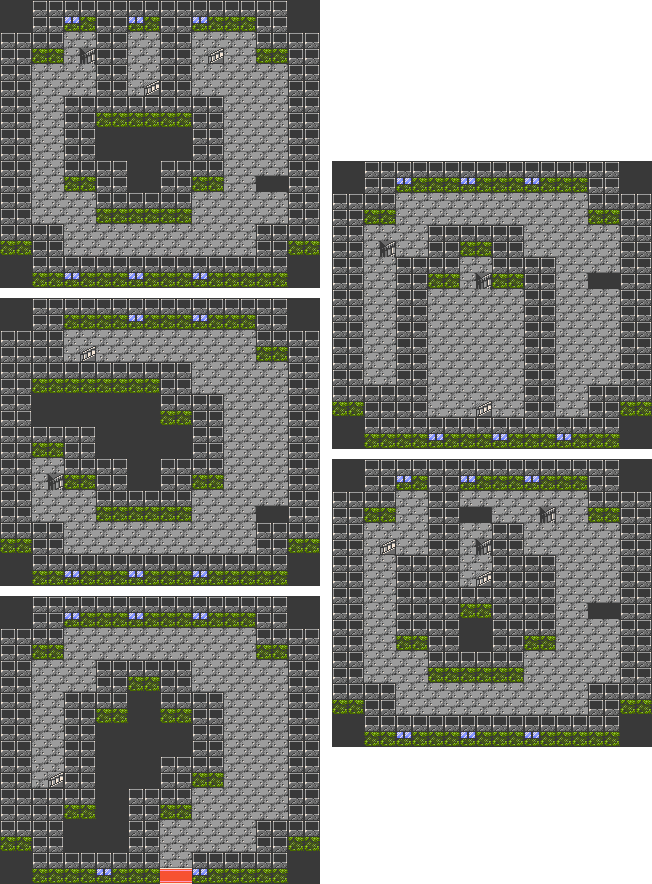
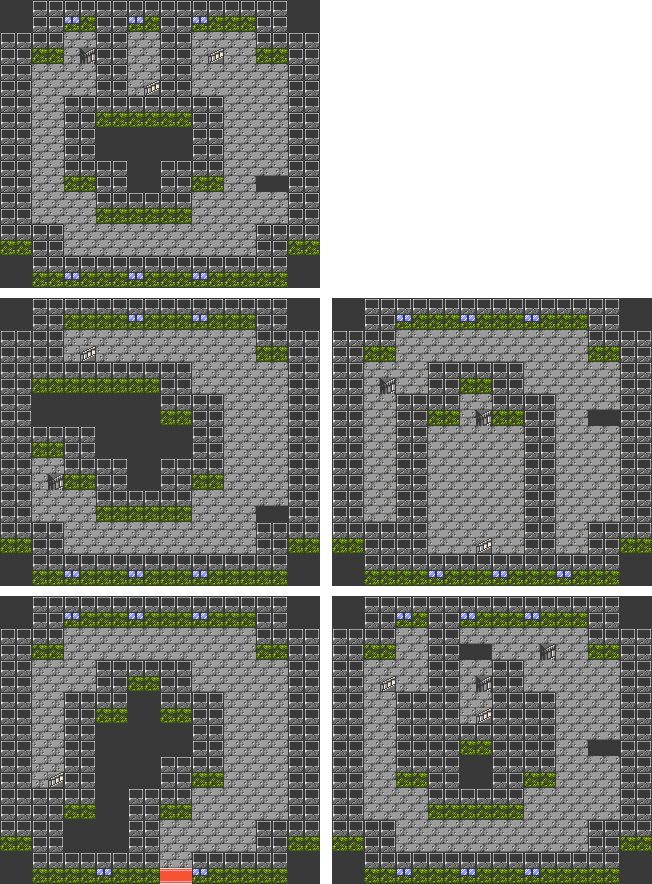
Added all warps, need to reajust

diff --git a/crystal.js b/crystal.js
@@ -154,7 +154,7 @@ var crystal = {
 			rightmart: {x: 280, y: 85                              },
 			gym:       {x: 102, y: 183                             },
 			center:    {x: 252, y: 251                             },
-			icepath:   {x: 432, y: 90, name: "Route 44 (Mahogany)" },
+			icepath:   {x: 432, y: 90, name: "Route44 (Mahogany)" },
         },
         blackthorn: {
 			den:         {x: 330, y: 69  },
@@ -366,7 +366,177 @@ var crystal = {
         },
 
         // Important locations
-        
+        darkcave: {
+			left:  {x: 113, y: 217 },
+			top:   {x: 280, y: 49  },
+			right: {x: 571, y: 506 },
+        },
+        puzzlechambers: {
+			hooh_top:       {x: 80,  y: 25,  name: "Puzzle (Ho-oh)"      },
+			hooh_mid:       {x: 80,  y: 75,  name: "Puzzle (Ho-oh)"      },
+			hooh_bot:       {x: 80,  y: 130, name: "Puzzle (Ho-oh)"      },
+			kabuto_top:     {x: 250, y: 25,  name: "Puzzle (Kabuto)"     },
+			kabuto_mid:     {x: 250, y: 75,  name: "Puzzle (Kabuto)"     },
+			kabuto_bot:     {x: 250, y: 130, name: "Puzzle (Kabuto)"     },
+			omanyte_top:    {x: 80,  y: 194, name: "Puzzle (Omanyte)"    },
+			omanyte_mid:    {x: 80,  y: 248, name: "Puzzle (Omanyte)"    },
+			omanyte_bot:    {x: 80,  y: 305, name: "Puzzle (Omanyte)"    },
+			aerodactyl_top: {x: 250, y: 194, name: "Puzzle (Aerodactyl)" },
+			aerodactyl_mid: {x: 250, y: 248, name: "Puzzle (Aerodactyl)" },
+			aerodactyl_bot: {x: 250, y: 305, name: "Puzzle (Aerodactyl)" },
+        },
+        unioncave: {
+            f1_top:   {x: 278, y: 36,  name: "Union Cave (1F)"  },
+			f1_right: {x: 279, y: 341, name: "Union Cave (1F)"  },
+			f1_left:  {x: 54,  y: 352, name: "Union Cave (1F)"  },
+			bf1_top:  {x: 385, y: 95,  name: "Union Cave (B1F)" },
+			bf1_mid:  {x: 385, y: 223, name: "Union Cave (B1F)" },
+			bf1_bot:  {x: 455, y: 362, name: "Union Cave (B1F)" },
+        },
+        departmentstore: {
+            f1_door: {x: 136, y: 382 },
+			f1_up:   {x: 260, y: 322 },
+			f2_up:   {x: 209, y: 125 },
+			f2_down: {x: 260, y: 184 },
+			f3_up:   {x: 209, y: 27  },
+			f3_down: {x: 258, y: 53  },
+			f4_up:   {x: 475, y: 266 },
+			f4_down: {x: 523, y: 319 },
+			f5_up:   {x: 477, y: 127 },
+			f5_down: {x: 524, y: 177 },
+			f6_up:   {x: 492, y: 16  },
+			f6_down: {x: 524, y: 39  },
+			b1f:     {x: 386, y: 445 },
+        },
+        radiotower_underground: {
+			tunnel_top:      {x: 30,  y: 72,  name: "Underground" },
+			tunnel_basement: {x: 282, y: 141, name: "Underground" },
+			tunnel_bot:      {x: 30,  y: 188, name: "Underground" },
+			radio_left:      {x: 30,  y: 310, name: "Radio Tower" },
+			radio_mid:       {x: 128, y: 233, name: "Radio Tower" },
+			radio_right:     {x: 290, y: 302, name: "Radio Tower" },
+        },
+        tintower_burnedtower: {
+			burned_fall:                                 {x: 387, y: 20},
+			burned_entrance:                                 {x: 401, y: 128},
+			burned_stairs:                                 {x: 319, y: 171},
+			aaaa0:                                 {x: 335, y: 198},
+			aaaa1:                                 {x: 370, y: 239},
+			aaaa2:                                 {x: 494, y: 92},
+			aaaa3:                                 {x: 369, y: 298},
+			aaaa4:                                 {x: 289, y: 391},
+			aaaa5:                                 {x: 397, y: 480},
+			aaaa6:                                 {x: 246, y: 481},
+			aaaa7:                                 {x: 231, y: 335},
+			aaaa8:                                 {x: 14, y: 302},
+			aaaa9:                                 {x: 11, y: 469},
+			aaaa10:                                 {x: 149, y: 216},
+			aaaa11:                                 {x: 24, y: 202},
+			aaaa12:                                 {x: 21, y: 39},
+			aaaa13:                                 {x: 243, y: 216},
+        },
+        mtmortar_r42: {
+			r42_gate:               {x: 56,  y: 765, name: "Route 42"            },
+			r42_cave1:              {x: 168, y: 678, name: "Route 42"            },
+			r42_cave2:              {x: 313, y: 719, name: "Route 42"            },
+			r42_cave3:              {x: 550, y: 698, name: "Route42 (Mahogany)" },
+			mortarmain_topstairs:   {x: 147, y: 119, name: "Mt. Mortar (Main)"   },
+			mortarmain_midstairs:   {x: 54,  y: 278, name: "Mt. Mortar (Main)"   },
+			mortarmain_leftstairs:  {x: 84,  y: 436, name: "Mt. Mortar (Main)"   },
+			mortarmain_leftdoor:    {x: 182, y: 583, name: "Mt. Mortar (Main)"   },
+			mortarmain_rightdoor:   {x: 465, y: 571, name: "Mt. Mortar (Main)"   },
+			mortarmain_rightstairs: {x: 536, y: 467, name: "Mt. Mortar (Main)"   },
+			mortarwater_door:       {x: 487, y: 329, name: "Mt. Mortar (Water)"  },
+			mortarwater_stairs:     {x: 484, y: 183, name: "Mt. Mortar (Water)"  },
+			mortarwater_waterfall:  {x: 482, y: 51,  name: "Mt. Mortar (Water)"  },
+        },
+        lighthouse: {
+			f1_entrance:  {x: 173, y: 827, name: "Lighthouse (F1)"       },
+			f1_fall:      {x: 270, y: 797, name: "Lighthouse (F1)"       },
+			f1_stairs:    {x: 55,  y: 748, name: "Lighthouse (F1)"       },
+			f2_entrance:  {x: 56,  y: 510, name: "Lighthouse (F2)"       },
+			f2_hole:      {x: 272, y: 546, name: "Lighthouse (F2)"       },
+			f2_fall:      {x: 270, y: 463, name: "Lighthouse (F2)"       },
+			f2_stairs:    {x: 84,  y: 327, name: "Lighthouse (F2)"       },
+			f3_entrance:  {x: 87,  y: 95,  name: "Lighthouse (F3)"       },
+			f3_hole:      {x: 271, y: 209, name: "Lighthouse (F3)"       },
+			f3_fall:      {x: 270, y: 133, name: "Lighthouse (F3)"       },
+			f3_stairs:    {x: 215, y: 23,  name: "Lighthouse (F3)"       },
+			f4_entrance:  {x: 344, y: 653, name: "Lighthouse (F4)"       },
+			f4_hole1:     {x: 611, y: 776, name: "Lighthouse (F4)"       },
+			f4_fall:      {x: 605, y: 691, name: "Lighthouse (F4)"       },
+			f4_stairstop: {x: 550, y: 649, name: "Lighthouse (F4)"       },
+			f4_stairsbot: {x: 456, y: 740, name: "Lighthouse (F4)"       },
+			f4_stairsmid: {x: 457, y: 692, name: "Lighthouse (F4)"       },
+			f4_hole2:     {x: 455, y: 613, name: "Lighthouse (F4)"       },
+			f5_hole:      {x: 607, y: 450, name: "Lighthouse (F5 outer)" },
+			f5_fall:      {x: 606, y: 368, name: "Lighthouse (F5 outer)" },
+			f5_stairstop: {x: 384, y: 342, name: "Lighthouse (F5 outer)" },
+			f5_stairsmid: {x: 484, y: 442, name: "Lighthouse (F5 inner)" },
+			f5_stairsbot: {x: 483, y: 518, name: "Lighthouse (F5 inner)" },
+        },
+        ssaqua: {
+			entrance: {x: 250, y: 52  },
+			top1:     {x: 86,  y: 106 },
+			top2:     {x: 152, y: 167 },
+			top3:     {x: 213, y: 105 },
+			top4:     {x: 282, y: 163 },
+			stairs:   {x: 327, y: 203 },
+			bot1:     {x: 84,  y: 212 },
+			bot2:     {x: 153, y: 273 },
+			bot3:     {x: 214, y: 214 },
+			bot4:     {x: 280, y: 271 },
+        },
+        whirlislands: {
+			waterfall_cave:  {x: 56,  y: 82,  name: "Whirl (Waterfall)" },
+			waterfall_top:   {x: 230, y: 113, name: "Whirl (Waterfall)" },
+			waterfall_bot:   {x: 239, y: 187, name: "Whirl (Waterfall)" },
+			lake_entrance:   {x: 384, y: 137, name: "Whirl (Lake)"      },
+			lake_left:       {x: 393, y: 29,  name: "Whirl (Lake)"      },
+			lake_right:      {x: 574, y: 55,  name: "Whirl (Lake)"      },
+			ledges_entrance: {x: 431, y: 207, name: "Whirl (Ledges)"    },
+			ledges_bot:      {x: 592, y: 168, name: "Whirl (Ledges)"    },
+			ledges_top:      {x: 647, y: 106, name: "Whirl (Ledges)"    },
+			main_top:        {x: 101, y: 389, name: "Whirl (Main)"      },
+			main_mid:        {x: 198, y: 557, name: "Whirl (Main)"      },
+			main_botleft:    {x: 65,  y: 693, name: "Whirl (Main)"      },
+			main_botmid:     {x: 356, y: 686, name: "Whirl (Main)"      },
+			main_botright:   {x: 607, y: 614, name: "Whirl (Main)"      },
+			main_cave:       {x: 316, y: 365, name: "Whirl (Main)"      },
+        },
+        victoryroad_reception: {
+			reception_bot:   {x: 323, y: 646, name: "League Reception"  },
+			reception_left:  {x: 194, y: 405, name: "League Reception"  },
+			reception_right: {x: 453, y: 404, name: "League Reception"  },
+			reception_top:   {x: 324, y: 366, name: "League Reception"  },
+			roadf2_left:     {x: 24,  y: 211, name: "Victory Road (2F)" },
+			roadf2_mid:      {x: 215, y: 70,  name: "Victory Road (2F)" },
+			roadf2_right:    {x: 282, y: 178, name: "Victory Road (2F)" },
+			roadf2_fall:     {x: 28,  y: 52,  name: "Victory Road (2F)" },
+			roadf3_hole:     {x: 346, y: 79,  name: "Victory Road (3F)" },
+			roadf3_mid:      {x: 539, y: 172, name: "Victory Road (3F)" },
+			roadf3_bot:      {x: 592, y: 280, name: "Victory Road (3F)" },
+			roadf3_top:      {x: 541, y: 49,  name: "Victory Road (3F)" },
+        },
+
+        mtmoon_r3_r4: {
+			r3:             {x: 129, y: 330, name: "Route 3"  },
+			r4:             {x: 301, y: 415, name: "Route 4"  },
+			moon_stairstop: {x: 319, y: 75,  name: "Mt. Moon" },
+			moon_doortop:   {x: 158, y: 86,  name: "Mt. Moon" },
+			moon_stairsbot: {x: 347, y: 129, name: "Mt. Moon" },
+			moon_doorbot:   {x: 349, y: 272, name: "Mt. Moon" },
+        },
+        mtsilver_r28: {
+			r28_gate:    {x: 468, y: 332, name: "Route 28"   },
+			r28_house:   {x: 326, y: 227, name: "Route 28"   },
+			r28_center:  {x: 417, y: 120, name: "Route 28"   },
+			r28_silver:  {x: 332, y: 65,  name: "Route 28"   },
+			mt_entrance: {x: 145, y: 337, name: "Mt. Silver" },
+			mt_left:     {x: 83,  y: 226, name: "Mt. Silver" },
+			mt_right:    {x: 203, y: 21,  name: "Mt. Silver" },
+			mt_exit:     {x: 50,  y: 80,  name: "Mt. Silver" },
+        },
     },
 
     // Numbers are meant to be to check if exist any marks/progress in the maps
